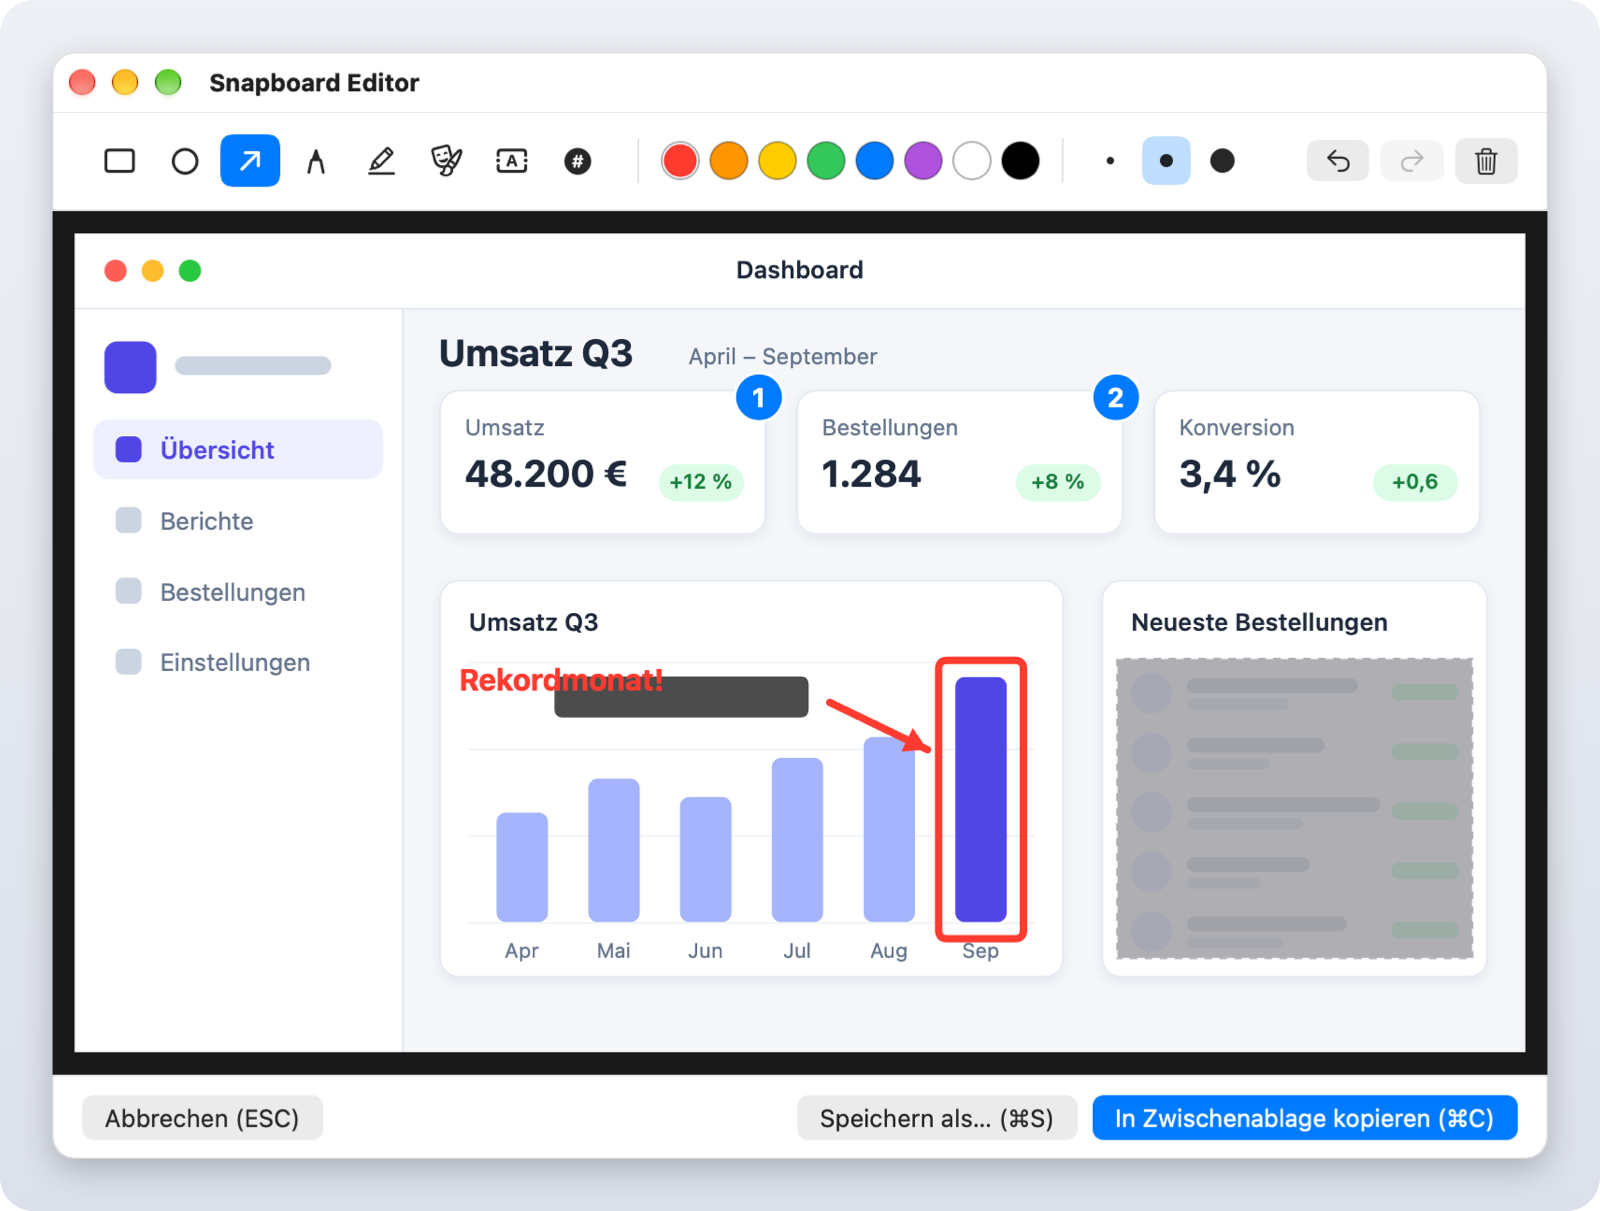
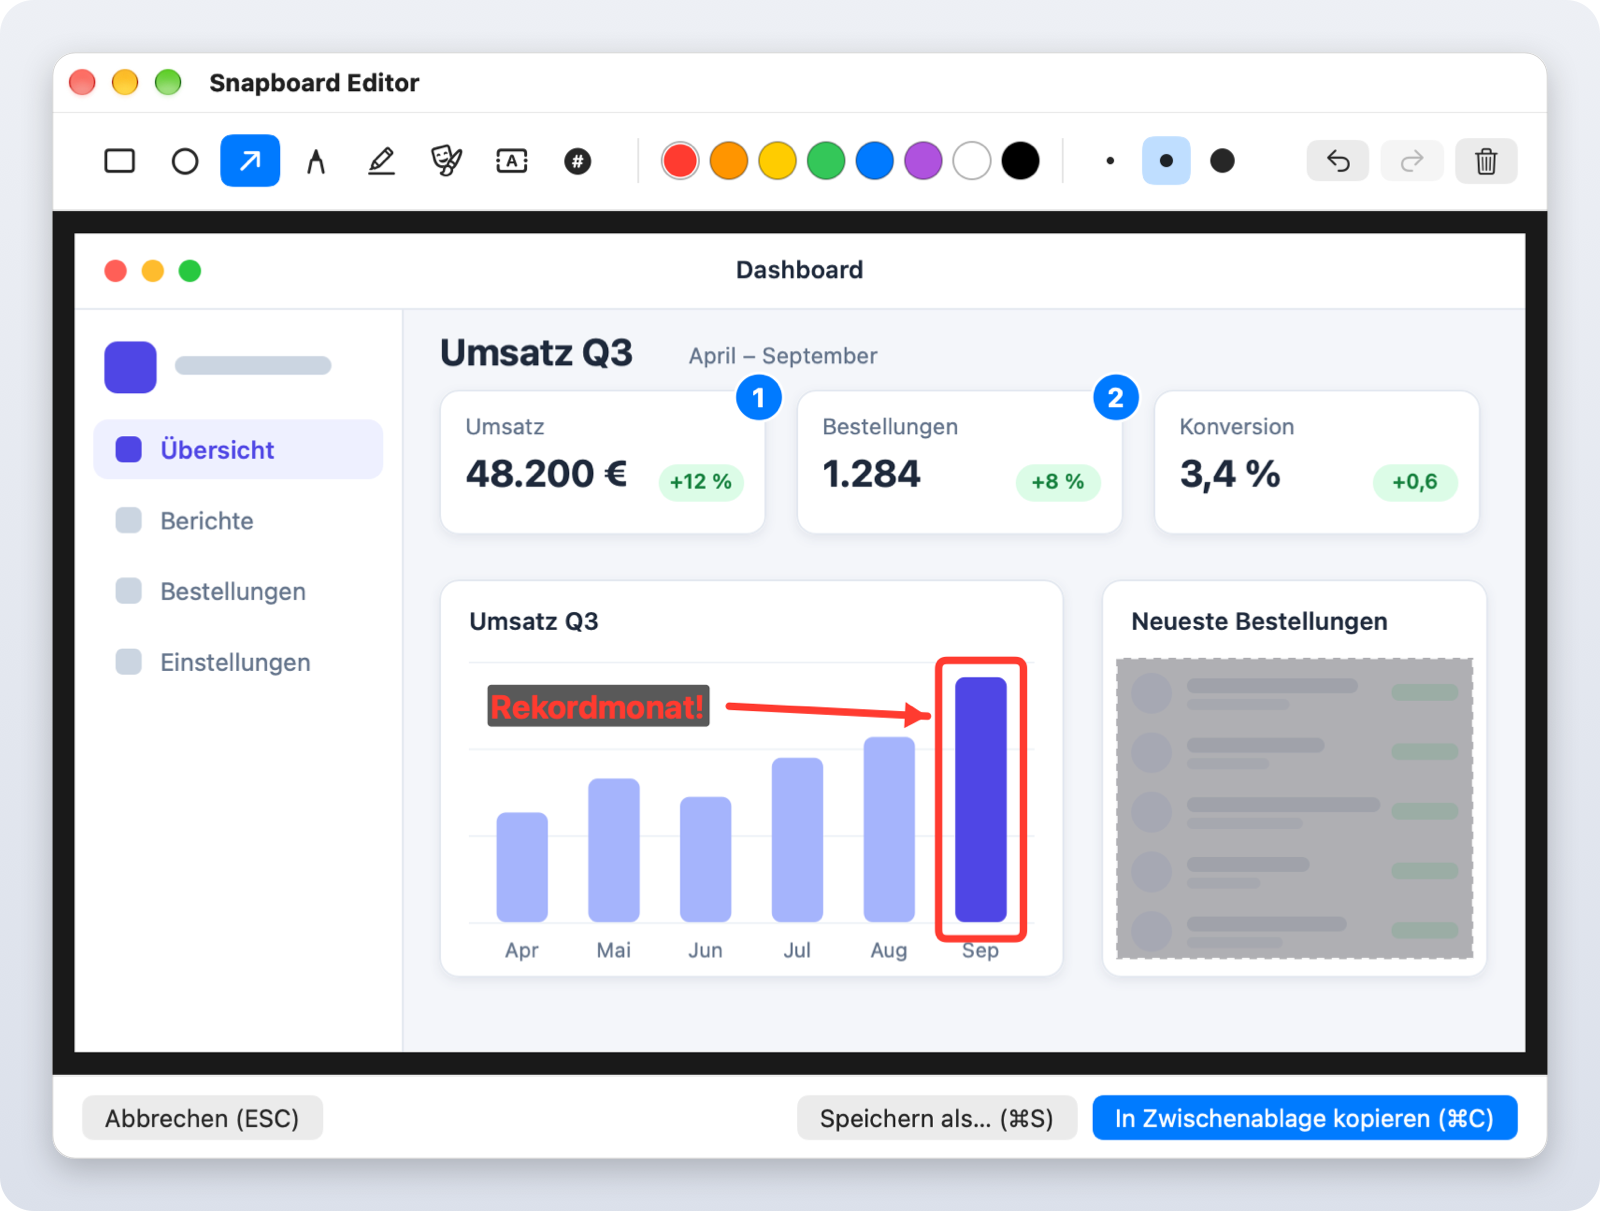
Textanmerkung in der Vorschau wie im Export, Einstellungsfenster höher
- Editor: Vorschau und exportiertes Bild nutzen für Textanmerkungen
  dieselbe Geometrie (TextAnnotationLayout). Bisher war der Text in der
  Vorschau auf den Ankerpunkt zentriert, der Hintergrund begann aber dort.
  Das exportierte Bild bleibt unverändert.
- Einstellungen: Fensterhöhe 460 -> 490 pt, damit die letzte Zeile in
  allen 10 Sprachen Abstand zur Fußleiste hat.
- Screenshot-Harness: Demo-Bild als 2x-Bitmap, Optionen --verify-text
  (Vorschau gegen Export) und --all-languages (alle Sprachen zur Kontrolle).
- README-Screenshots neu gerendert.

diff --git a/scripts/screenshots/main.swift b/scripts/screenshots/main.swift
@@ -21,6 +21,11 @@ func argument(_ name: String) -> String? {
 let outputDirectory = URL(fileURLWithPath: argument("--out") ?? ".", isDirectory: true)
 let fileSuffix = argument("--suffix") ?? ""
 let debugDirectory = argument("--debug").map { URL(fileURLWithPath: $0, isDirectory: true) }
+/// Renders only the named shot ("editor" or "settings").
+let onlyShot = argument("--only")
+/// Compares the editor preview of a text annotation with the exported image and writes
+/// both crops to this directory.
+let verifyTextDirectory = argument("--verify-text").map { URL(fileURLWithPath: $0, isDirectory: true) }
 
 /// Pixels per point of the rendered windows.
 let renderScale: CGFloat = 2
@@ -152,6 +157,17 @@ func renderWindow(_ window: NSWindow, name: String) throws {
     settle()
     guard let frameView = window.contentView?.superview else { return }
     let raw = snapshot(frameView)
+    if debugDirectory != nil {
+        // Report scroll views whose content does not fit (clipped or scrollable content).
+        func scrollViews(in view: NSView) -> [NSScrollView] {
+            (view as? NSScrollView).map { [$0] } ?? view.subviews.flatMap(scrollViews)
+        }
+        for scrollView in scrollViews(in: frameView) {
+            let content = scrollView.documentView?.frame.height ?? 0
+            let visible = scrollView.contentView.bounds.height
+            print("  \(name): scroll content \(content) pt, visible \(visible) pt, overflow \(content - visible) pt")
+        }
+    }
     if let debugDirectory {
         try writePNG(raw, to: debugDirectory.appendingPathComponent("\(name)\(fileSuffix).raw.png"))
     }
@@ -177,13 +193,12 @@ func demoAnnotations() -> [AnnotationItem] {
         // Highlight the best month
         AnnotationItem(tool: .rectangle, startPoint: n(peak.minX, peak.minY),
                        endPoint: n(peak.maxX, peak.maxY), color: .red, lineWidth: 4),
-        // The editor preview centers the text on its anchor point, so the anchor sits
-        // roughly in the middle of the label.
-        AnnotationItem(tool: .text, startPoint: n(262, 240), endPoint: n(262, 240),
+        // Text annotations are anchored at the bottom-left corner of the text.
+        AnnotationItem(tool: .text, startPoint: n(224, 264), endPoint: n(224, 264),
                        color: .red, lineWidth: 4,
                        text: DemoContent.strings(for: currentLanguage).annotation),
-        AnnotationItem(tool: .arrow, startPoint: n(406, 252),
-                       endPoint: n(peak.minX - 6, peak.minY + 48), color: .red, lineWidth: 4),
+        AnnotationItem(tool: .arrow, startPoint: n(352, 254),
+                       endPoint: n(peak.minX - 6, peak.minY + 30), color: .red, lineWidth: 4),
         // Numbered steps
         AnnotationItem(tool: .stepNumber, startPoint: n(kpi[0].maxX - 4, kpi[0].minY + 4),
                        endPoint: n(kpi[0].maxX - 4, kpi[0].minY + 4), color: .blue, lineWidth: 4, stepNumber: 1),
@@ -222,6 +237,124 @@ func renderSettings() throws {
     try renderWindow(window, name: "settings")
 }
 
+// MARK: - Text annotation check
+
+/// RGBA8 pixels of a bitmap, top row first.
+struct Pixels {
+    let width: Int
+    let height: Int
+    let data: [UInt8]
+
+    init(_ rep: NSBitmapImageRep) {
+        let width = rep.pixelsWide, height = rep.pixelsHigh
+        self.width = width
+        self.height = height
+        var buffer = [UInt8](repeating: 0, count: width * height * 4)
+        buffer.withUnsafeMutableBytes { raw in
+            let ctx = CGContext(
+                data: raw.baseAddress, width: width, height: height, bitsPerComponent: 8,
+                bytesPerRow: width * 4, space: CGColorSpace(name: CGColorSpace.sRGB)!,
+                bitmapInfo: CGImageAlphaInfo.premultipliedLast.rawValue
+            )!
+            ctx.draw(rep.cgImage!, in: CGRect(x: 0, y: 0, width: width, height: height))
+        }
+        data = buffer
+    }
+
+    func pixel(_ x: Int, _ y: Int) -> (Int, Int, Int) {
+        let i = (y * width + x) * 4
+        return (Int(data[i]), Int(data[i + 1]), Int(data[i + 2]))
+    }
+
+    func difference(to other: Pixels, x: Int, y: Int, offsetX: Int = 0, offsetY: Int = 0) -> Int {
+        let a = pixel(x, y), b = other.pixel(x + offsetX, y + offsetY)
+        return max(abs(a.0 - b.0), abs(a.1 - b.1), abs(a.2 - b.2))
+    }
+}
+
+/// Bounding box of the pixels where `annotated` differs from `clean` (at `offset` in `annotated`).
+func changedBox(clean: Pixels, annotated: Pixels, offsetX: Int, offsetY: Int) -> CGRect? {
+    var minX = Int.max, minY = Int.max, maxX = -1, maxY = -1
+    for y in 0..<clean.height {
+        for x in 0..<clean.width where clean.difference(to: annotated, x: x, y: y, offsetX: offsetX, offsetY: offsetY) > 24 {
+            minX = min(minX, x); minY = min(minY, y); maxX = max(maxX, x); maxY = max(maxY, y)
+        }
+    }
+    guard maxX >= 0 else { return nil }
+    return CGRect(x: minX, y: minY, width: maxX - minX + 1, height: maxY - minY + 1)
+}
+
+/// Renders a text annotation once through the editor (preview) and once through the export
+/// path, at the same pixel scale, and checks that both place it identically.
+@MainActor
+func verifyTextAnnotation(outputDirectory: URL) throws -> Bool {
+    let image = DemoContent.makeImage(language: currentLanguage)
+    let item = AnnotationItem(
+        tool: .text, startPoint: CGPoint(x: 0.3, y: 0.55), endPoint: CGPoint(x: 0.3, y: 0.55),
+        color: .red, lineWidth: 4, text: DemoContent.strings(for: currentLanguage).annotation
+    )
+
+    // Export path
+    guard let exported = ImageRendererService.shared.render(image: image, annotations: [item]),
+          let exportedCG = exported.cgImage(forProposedRect: nil, context: nil, hints: nil) else {
+        print("export failed")
+        return false
+    }
+    let exportRep = NSBitmapImageRep(cgImage: exportedCG)
+    let clean = Pixels(NSBitmapImageRep(cgImage: image.cgImage(forProposedRect: nil, context: nil, hints: nil)!))
+    let exportPixels = Pixels(exportRep)
+
+    // Preview path: a window large enough that the canvas shows the image 1:1 (in points),
+    // rendered at 2x, i.e. at the image's pixel size.
+    let vm = EditorViewModel(image: image)
+    vm.annotations = [item]
+    let window = ActiveLookingWindow(contentViewController: NSHostingController(rootView: EditorView(viewModel: vm)))
+    window.setContentSize(NSSize(width: 900, height: 700))
+    window.appearance = NSAppearance(named: .aqua)
+    window.contentView?.layoutSubtreeIfNeeded()
+    settle()
+    let editorRep = snapshot(window.contentView!)
+    let editor = Pixels(editorRep)
+
+    // Locate the canvas: scan from the editor's center to the dark surround.
+    let cy = editor.height / 2, cx = editor.width / 2
+    func isDark(_ p: (Int, Int, Int)) -> Bool { p.0 < 40 && p.1 < 40 && p.2 < 40 }
+    var left = cx; while left > 0, !isDark(editor.pixel(left - 1, cy)) { left -= 1 }
+    var top = cy; while top > 0, !isDark(editor.pixel(cx, top - 1)) { top -= 1 }
+    let crop = editorRep.cgImage!.cropping(to: CGRect(x: left, y: top, width: clean.width, height: clean.height))!
+    let previewRep = NSBitmapImageRep(cgImage: crop)
+
+    try writePNG(exportRep, to: outputDirectory.appendingPathComponent("text-export.png"))
+    try writePNG(previewRep, to: outputDirectory.appendingPathComponent("text-preview.png"))
+
+    let exportBox = changedBox(clean: clean, annotated: exportPixels, offsetX: 0, offsetY: 0)
+    let previewBox = changedBox(clean: clean, annotated: editor, offsetX: left, offsetY: top)
+    print("canvas origin in editor: \(left),\(top)")
+    print("export  annotation box: \(String(describing: exportBox))")
+    print("preview annotation box: \(String(describing: previewBox))")
+
+    // Pixel difference inside the annotation
+    var maxDiff = 0, total = 0, count = 0
+    if let box = exportBox {
+        for y in Int(box.minY)..<Int(box.maxY) {
+            for x in Int(box.minX)..<Int(box.maxX) {
+                let d = exportPixels.difference(to: editor, x: x, y: y, offsetX: left, offsetY: top)
+                maxDiff = max(maxDiff, d); total += d; count += 1
+            }
+        }
+    }
+    let mean = count > 0 ? Double(total) / Double(count) : 0
+    print(String(format: "difference inside the box: mean %.2f, max %d (of 255)", mean, maxDiff))
+
+    let boxesMatch: Bool = {
+        guard let a = exportBox, let b = previewBox else { return false }
+        return abs(a.minX - b.minX) <= 1 && abs(a.minY - b.minY) <= 1
+            && abs(a.maxX - b.maxX) <= 1 && abs(a.maxY - b.maxY) <= 1
+    }()
+    print(boxesMatch && mean < 4 ? "OK: preview matches export" : "MISMATCH")
+    return boxesMatch && mean < 4
+}
+
 // MARK: - Main
 
 let currentLanguage = Bundle.main.preferredLocalizations.first ?? "en"
@@ -238,8 +371,12 @@ MainActor.assumeIsolated {
         if let debugDirectory {
             try FileManager.default.createDirectory(at: debugDirectory, withIntermediateDirectories: true)
         }
-        try renderEditor()
-        try renderSettings()
+        if let verifyTextDirectory {
+            try FileManager.default.createDirectory(at: verifyTextDirectory, withIntermediateDirectories: true)
+            exit(try verifyTextAnnotation(outputDirectory: verifyTextDirectory) ? 0 : 1)
+        }
+        if onlyShot == nil || onlyShot == "editor" { try renderEditor() }
+        if onlyShot == nil || onlyShot == "settings" { try renderSettings() }
     } catch {
         FileHandle.standardError.write("error: \(error.localizedDescription)\n".data(using: .utf8)!)
         exit(1)

diff --git a/Sources/Models/AnnotationModel.swift b/Sources/Models/AnnotationModel.swift
@@ -250,22 +250,8 @@ final class ImageRendererService {
             path.stroke()
 
         case .text:
-            guard !item.text.isEmpty else { break }
-            let fontSize = max(14.0, lineWidth * 4.5)
-            let font = NSFont.boldSystemFont(ofSize: fontSize)
-            let attributes: [NSAttributedString.Key: Any] = [
-                .font: font,
-                .foregroundColor: color
-            ]
-            let attrStr = NSAttributedString(string: item.text, attributes: attributes)
-            let strSize = attrStr.size()
-            let bgRect = CGRect(x: start.x - 4, y: start.y - 2, width: strSize.width + 8, height: strSize.height + 4)
-
-            NSColor.black.withAlphaComponent(0.65).setFill()
-            let bgPath = NSBezierPath(roundedRect: bgRect, xRadius: 4, yRadius: 4)
-            bgPath.fill()
-
-            attrStr.draw(at: start)
+            TextAnnotationLayout(item: item, imagePixelSize: CGSize(width: pW, height: pH))?
+                .draw(flipped: false)
 
         case .stepNumber:
             let radius = max(14.0, lineWidth * 3.5)
@@ -328,6 +314,64 @@ final class ImageRendererService {
         headPath.line(to: pt2)
         headPath.close()
         headPath.fill()
+    }
+}
+
+/// Geometry of a text annotation, shared by the editor preview and the exported image so
+/// both look exactly the same.
+///
+/// All values are in the pixel space of the image with a top-left origin. The anchor point
+/// (`startPoint`) is the bottom-left corner of the text; the background box adds a small
+/// padding around it.
+struct TextAnnotationLayout {
+    static let backgroundColor = NSColor.black.withAlphaComponent(0.65)
+    static let cornerRadius: CGFloat = 4
+
+    let attributedString: NSAttributedString
+    let textRect: CGRect
+    let backgroundRect: CGRect
+    let imagePixelSize: CGSize
+
+    init?(item: AnnotationItem, imagePixelSize: CGSize) {
+        guard item.tool == .text, !item.text.isEmpty,
+              imagePixelSize.width > 0, imagePixelSize.height > 0 else { return nil }
+
+        let lineWidth = max(2.0, item.lineWidth * (imagePixelSize.width / 800.0))
+        let font = NSFont.boldSystemFont(ofSize: max(14.0, lineWidth * 4.5))
+        let attributedString = NSAttributedString(string: item.text, attributes: [
+            .font: font,
+            .foregroundColor: item.color.nsColor
+        ])
+        let size = attributedString.size()
+        let anchor = CGPoint(
+            x: item.startPoint.x * imagePixelSize.width,
+            y: item.startPoint.y * imagePixelSize.height
+        )
+
+        self.attributedString = attributedString
+        self.imagePixelSize = imagePixelSize
+        self.textRect = CGRect(x: anchor.x, y: anchor.y - size.height, width: size.width, height: size.height)
+        self.backgroundRect = textRect.insetBy(dx: -4, dy: -2)
+    }
+
+    /// Draws background and text into the current `NSGraphicsContext`, whose coordinate
+    /// space is the image's pixel space. `flipped` tells whether its origin is top-left.
+    func draw(flipped: Bool) {
+        func place(_ rect: CGRect) -> CGRect {
+            flipped ? rect : CGRect(
+                x: rect.minX, y: imagePixelSize.height - rect.maxY,
+                width: rect.width, height: rect.height
+            )
+        }
+
+        Self.backgroundColor.setFill()
+        NSBezierPath(
+            roundedRect: place(backgroundRect),
+            xRadius: Self.cornerRadius,
+            yRadius: Self.cornerRadius
+        ).fill()
+
+        attributedString.draw(at: place(textRect).origin)
     }
 }
 

diff --git a/Sources/Views/EditorView.swift b/Sources/Views/EditorView.swift
@@ -3,7 +3,11 @@ import AppKit
 
 @MainActor
 final class EditorViewModel: ObservableObject {
-    @Published var image: NSImage
+    @Published var image: NSImage {
+        didSet { imagePixelSize = Self.pixelSize(of: image) }
+    }
+    /// Pixel size of `image`, the coordinate space of the exported image.
+    private(set) var imagePixelSize: CGSize
     @Published var annotations: [AnnotationItem] = []
     @Published var undoStack: [[AnnotationItem]] = []
     @Published var redoStack: [[AnnotationItem]] = []
@@ -20,6 +24,14 @@ final class EditorViewModel: ObservableObject {
 
     init(image: NSImage) {
         self.image = image
+        self.imagePixelSize = Self.pixelSize(of: image)
+    }
+
+    private static func pixelSize(of image: NSImage) -> CGSize {
+        if let cgImage = image.cgImage(forProposedRect: nil, context: nil, hints: nil) {
+            return CGSize(width: cgImage.width, height: cgImage.height)
+        }
+        return image.size
     }
 
     func startDrawing(at point: CGPoint, in size: CGSize) {
@@ -458,15 +470,16 @@ struct EditorView: View {
             context.stroke(Path(rect), with: .color(Color.white.opacity(0.9)), style: StrokeStyle(lineWidth: 1.5, dash: [4, 4]))
 
         case .text:
-            guard !item.text.isEmpty else { break }
-            let bgRect = CGRect(x: start.x - 4, y: start.y - 2, width: CGFloat(item.text.count * 10) + 16, height: max(16, item.lineWidth * 4) + 6)
-            context.fill(Path(roundedRect: bgRect, cornerRadius: 4), with: .color(Color.black.opacity(0.7)))
-
-            let text = Text(item.text)
-                .font(.system(size: max(14, item.lineWidth * 4), weight: .bold))
-                .foregroundColor(color)
-            let resolved = context.resolve(text)
-            context.draw(resolved, at: start)
+            // Same layout as the exported image, scaled from image pixels to the canvas.
+            let pixelSize = viewModel.imagePixelSize
+            guard let layout = TextAnnotationLayout(item: item, imagePixelSize: pixelSize) else { break }
+            context.withCGContext { cgContext in
+                cgContext.scaleBy(x: size.width / pixelSize.width, y: size.height / pixelSize.height)
+                NSGraphicsContext.saveGraphicsState()
+                NSGraphicsContext.current = NSGraphicsContext(cgContext: cgContext, flipped: true)
+                layout.draw(flipped: true)
+                NSGraphicsContext.restoreGraphicsState()
+            }
 
         case .stepNumber:
             let radius = max(13.0, item.lineWidth * 3.2)

diff --git a/scripts/screenshots/DemoContent.swift b/scripts/screenshots/DemoContent.swift
@@ -77,12 +77,37 @@ enum DemoContent {
         )
     }
 
+    /// Returns the demo "screenshot" as a 2x bitmap, like a capture from a Retina display.
     static func makeImage(language: String) -> NSImage {
         let s = strings(for: language)
-        return NSImage(size: imageSize, flipped: true) { bounds in
-            draw(s, in: bounds)
-            return true
-        }
+        let scale: CGFloat = 2
+        let rep = NSBitmapImageRep(
+            bitmapDataPlanes: nil,
+            pixelsWide: Int(imageSize.width * scale),
+            pixelsHigh: Int(imageSize.height * scale),
+            bitsPerSample: 8,
+            samplesPerPixel: 4,
+            hasAlpha: true,
+            isPlanar: false,
+            colorSpaceName: .deviceRGB,
+            bytesPerRow: 0,
+            bitsPerPixel: 0
+        )!
+        rep.size = imageSize
+
+        NSGraphicsContext.saveGraphicsState()
+        let ctx = NSGraphicsContext(bitmapImageRep: rep)!
+        NSGraphicsContext.current = ctx
+        // Flip to a top-left origin for the layout code below.
+        ctx.cgContext.translateBy(x: 0, y: imageSize.height)
+        ctx.cgContext.scaleBy(x: 1, y: -1)
+        NSGraphicsContext.current = NSGraphicsContext(cgContext: ctx.cgContext, flipped: true)
+        draw(s, in: NSRect(origin: .zero, size: imageSize))
+        NSGraphicsContext.restoreGraphicsState()
+
+        let image = NSImage(size: imageSize)
+        image.addRepresentation(rep)
+        return image
     }
 
     // MARK: - Drawing

diff --git a/Sources/Views/SettingsView.swift b/Sources/Views/SettingsView.swift
@@ -103,7 +103,9 @@ struct SettingsView: View {
             .padding(16)
             .background(Color(NSColor.windowBackgroundColor))
         }
-        .frame(width: 520, height: 460)
+        // Tall enough for the whole form plus its bottom inset in every language,
+        // so the last row never touches the footer divider.
+        .frame(width: 520, height: 490)
         .onAppear {
             appState.checkLaunchAtLoginStatus()
         }

diff --git a/CONTRIBUTING.md b/CONTRIBUTING.md
@@ -35,6 +35,8 @@ The harness in `scripts/screenshots/` compiles the app sources without the app e
 inside a temporary `.app` bundle (so the `.lproj` localizations work) with its own bundle identifier,
 and draws a demo image instead of a real screenshot. It does not read or change the settings of an
 installed Snapboard. If your default SDK cannot compile SwiftUI, set `SDKROOT` to another macOS SDK.
+`--all-languages` renders every localization into `build/screenshots/languages/` for review, and
+`--verify-text` checks that the editor preview draws text annotations exactly like the exported image.
 
 ## Pull Requests & Issues
 - Keep PRs focused and well-scoped.
